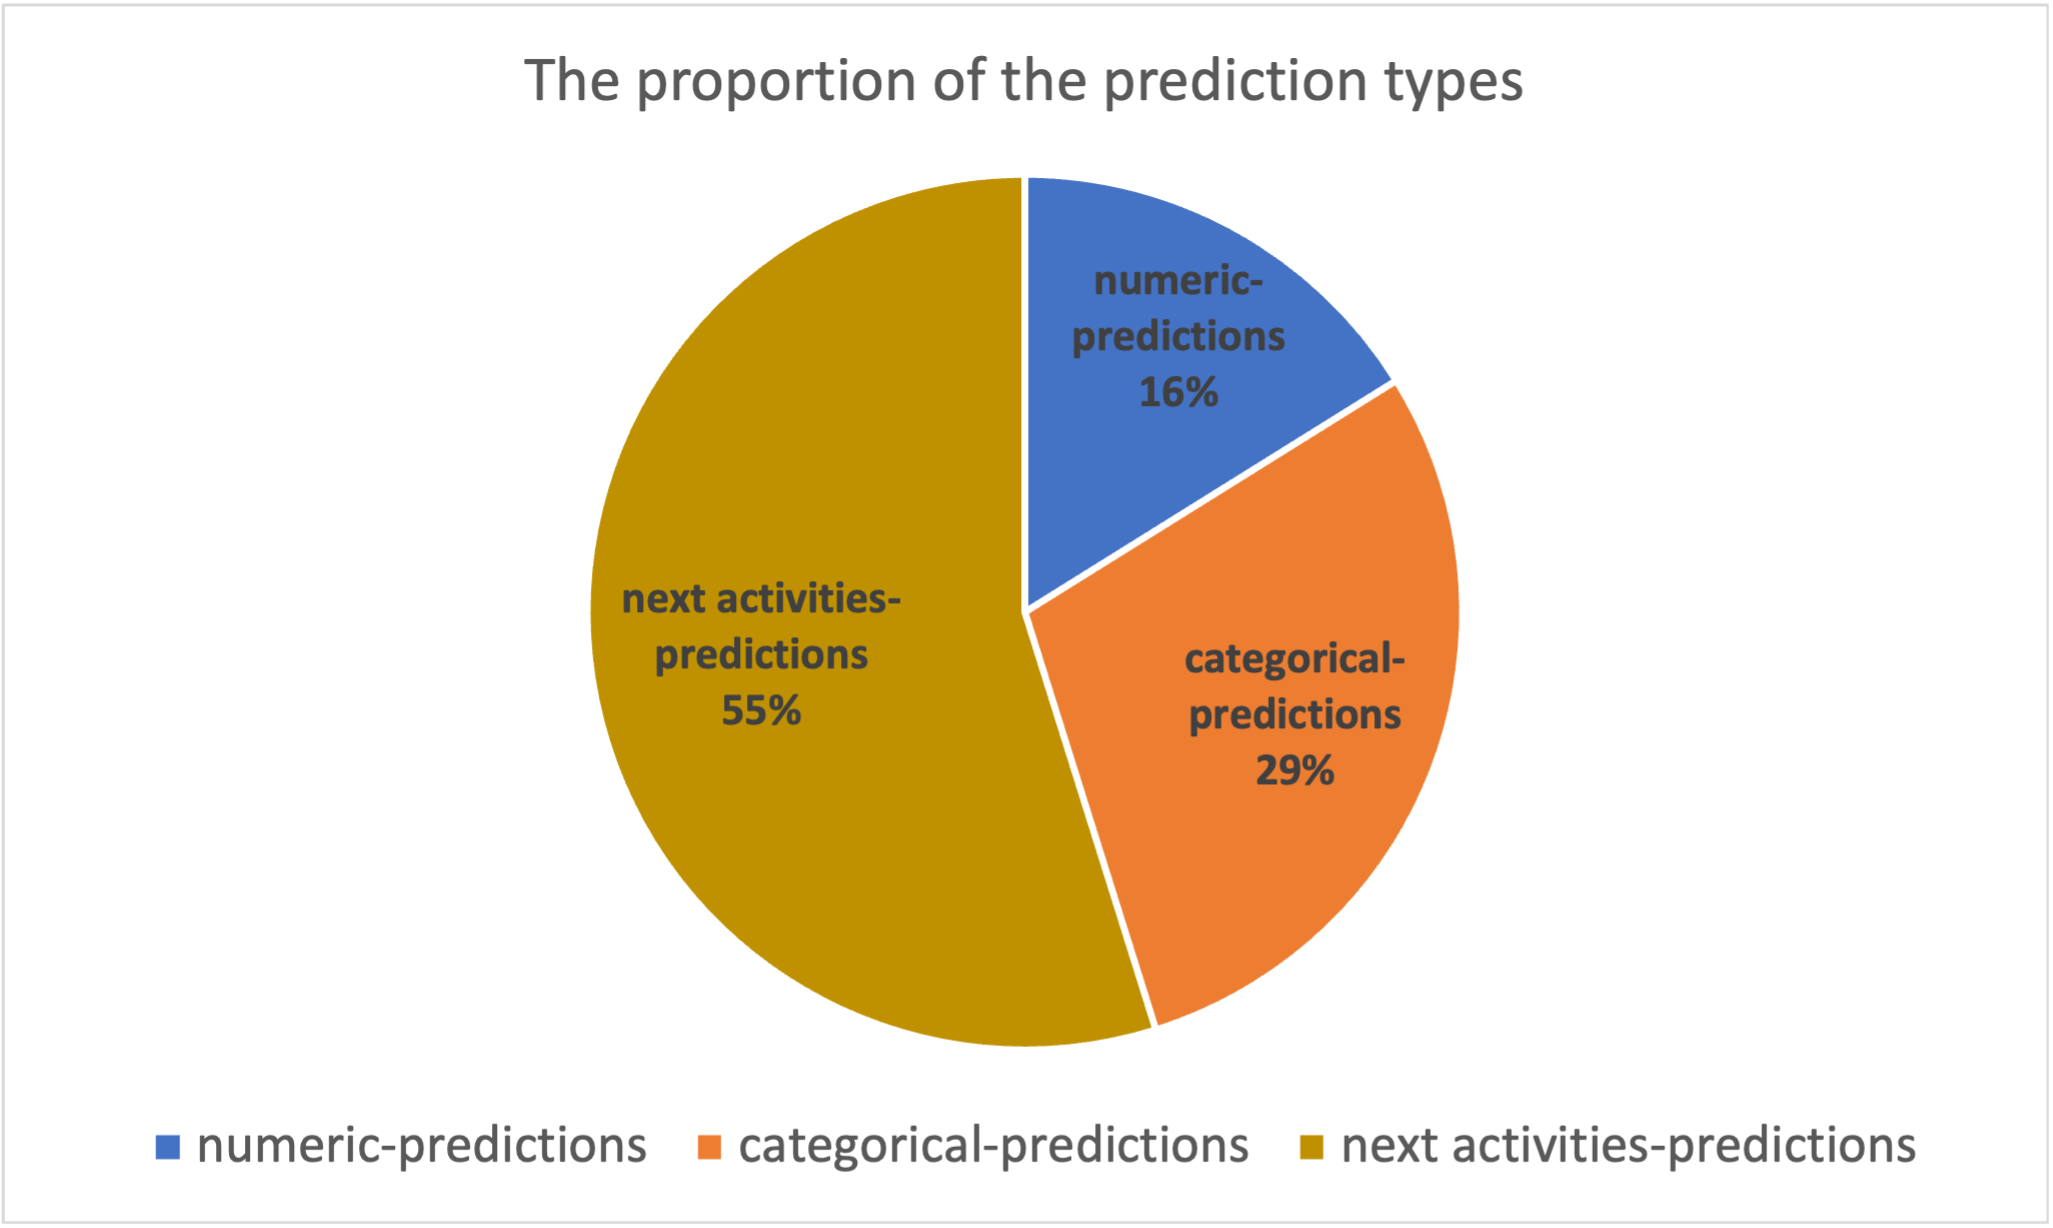
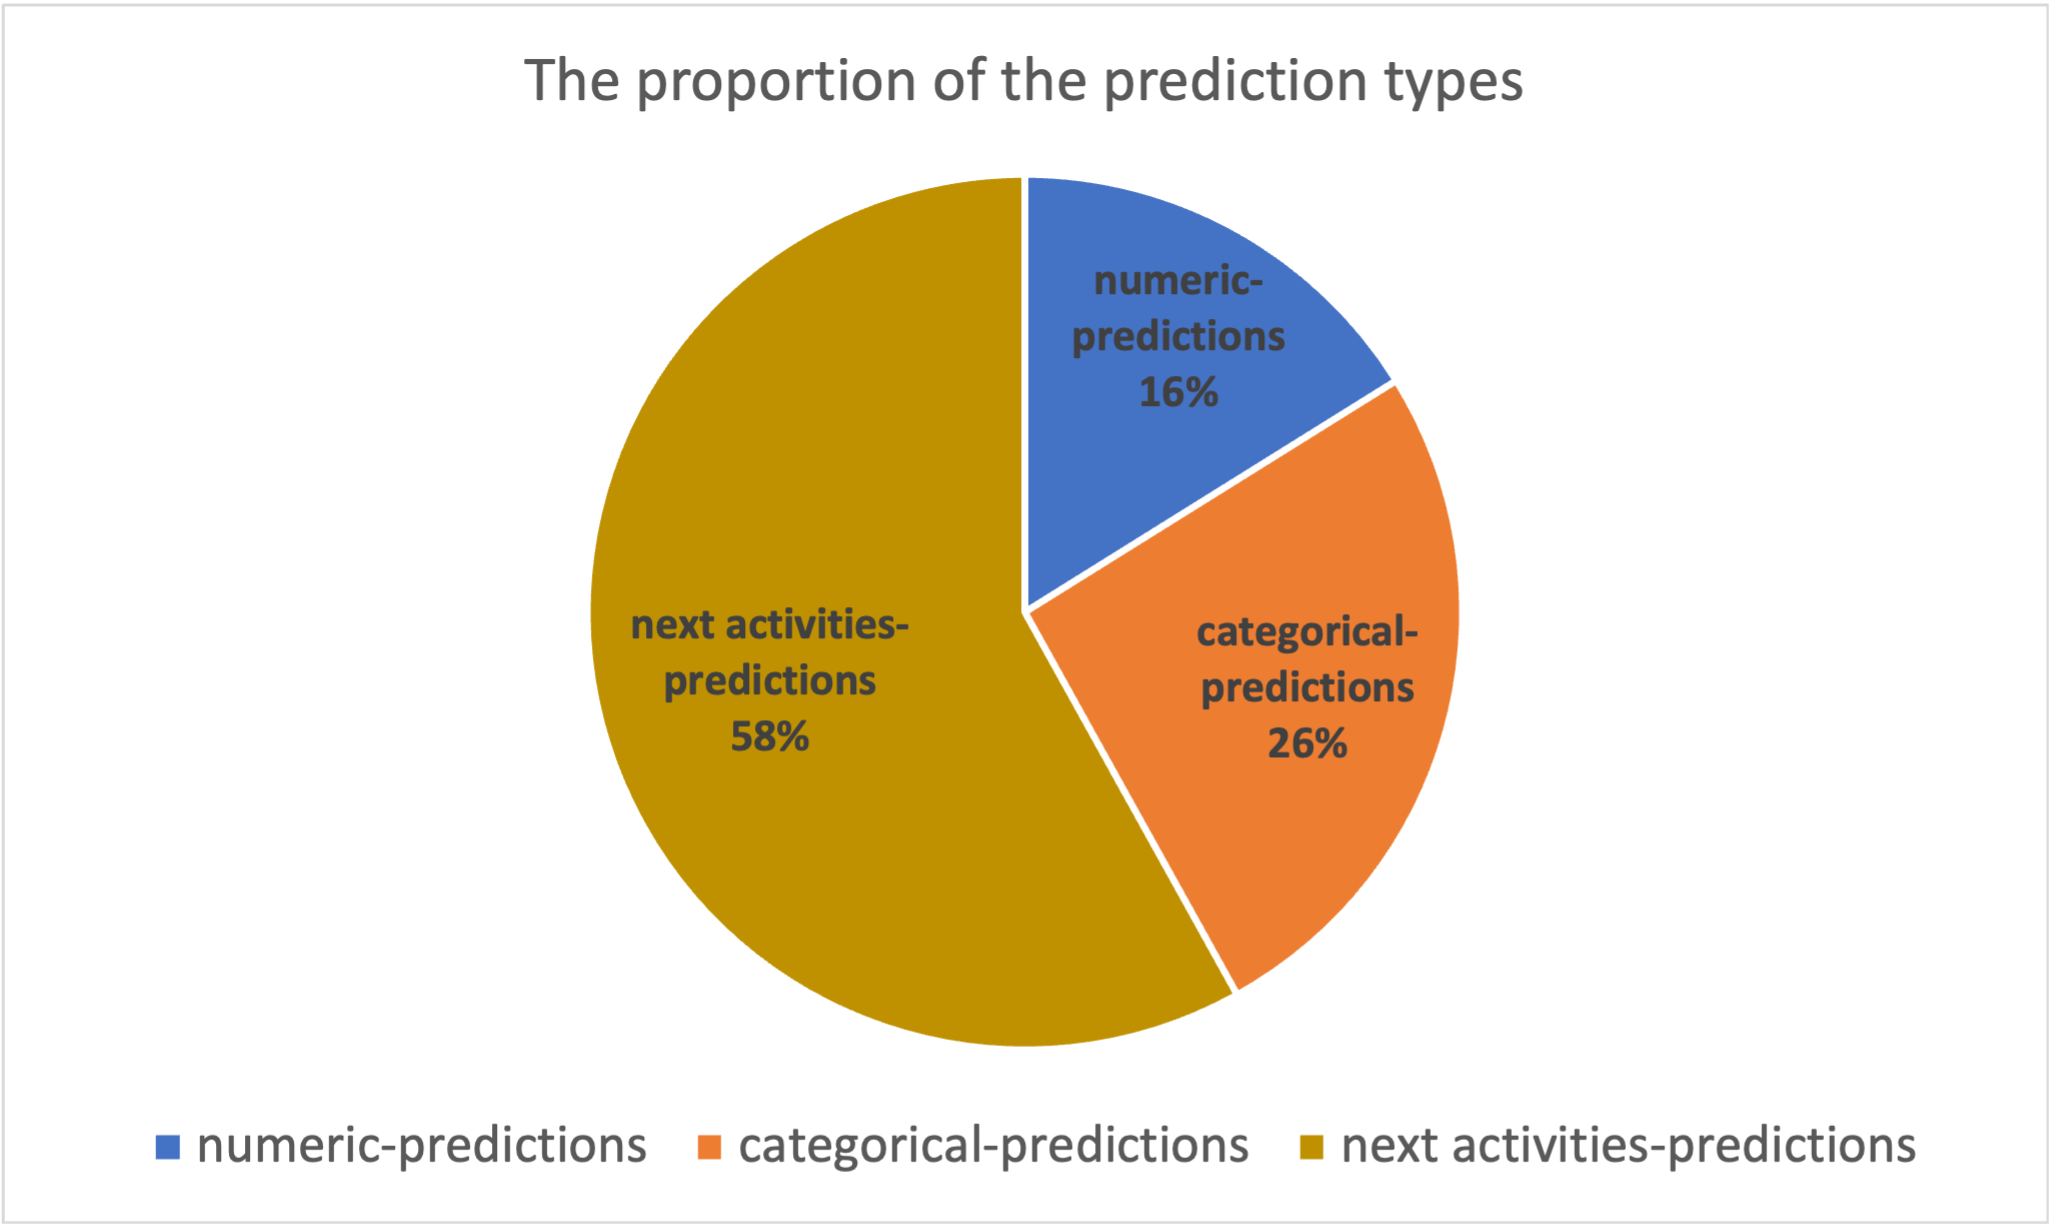
numeric prediction done; new pictures added

Changed region(s): [[0.4988, 0.4951, 0.6235, 0.8355], [0.3117, 0.4642, 0.4364, 0.6189], [0.5611, 0.4951, 0.6858, 0.6498]]

diff --git a/Seminar.tex b/Seminar.tex
@@ -6,6 +6,8 @@
 
 \usepackage{hyperref}[colorlinks,linkcolor=blue]
 
+\usepackage[utf8]{inputenc}
+
 \begin{document}
 	\title{Seminar- scientific methods in information systems}
 	\subtitle{Predictive Process Monitoring Methods:\\ Which One Suits Me Best?}
@@ -84,7 +86,7 @@
 		\end{figure}
 		
 		%Prediction level proportion
-		To address \textbf{RQ2}, I need to look closely at the prediction level proposed in each paper. The work of \cite{original} categorized three prediction levels, i.e., Numeric Predictions,   Categorical Predictions, and Next Activities Predictions. Here I followed the same principle and categorized my final article. I calculated thae proportion of each prediction level and plotted the following graph.
+		To address \textbf{RQ2}, I need to look closely at the prediction level proposed in each paper. The work of \cite{original} categorized three prediction levels, i.e., Numeric Predictions,   Categorical Predictions, and Next Activities Predictions. Here I followed the same principle and categorized my final article. I calculated the proportion of each prediction level and plotted the following graph.
 		
 		
 		\begin{figure}
@@ -93,7 +95,7 @@
 		\caption{The proportion of the prediction types}
 		\end{figure}
 		
-		People can observe that 55\% of techniques make a next-activity prediction. On the contrary, only 16\% of techniques make numeric predictions; I will look into this phenomenon in the following sub-sections. I will also summarize the benefits each prediction type brings to business logic as well as briefly talk about the algorithms and new trends that emerged in current studies.
+		People can observe that 58\% of techniques make a next-activity prediction. On the contrary, only 16\% of techniques make numeric predictions; I will look into this phenomenon in the following sub-sections. I will also summarize the benefits each prediction type brings to business logic as well as briefly talk about the algorithms and new trends that emerged in current studies.
 		
 		\subsection{Next Activities Predictions}
 		
@@ -105,14 +107,10 @@
 		
 		The works in this area all rely on specific models. It is clear that different methods are used to make the prediction, but among them, neural networks are the most commonly used method. \cite{art-29} points out that the prediction of remaining execution time belongs to regression problems and \cite{art-17} illustrated that the Long Short-Term Memory networks (LSTMs) commonly perform better than other models. Due to these facts, it is not hard to imagine why neural networks are the most commonly used ones.
 		
-		%TODO:接下来分析不同文章中提到的方法以及有哪些创新
-		
-		
-		
-		
-		
-		
-		%TODO: rewrite thentitle
+		In\cite{art-15}\cite{art-21}\cite{art-29}, neural networks are leveraged to make a precise prediction. In \cite{art-15}, the authors employed Deep Neural Network (DNN) and Entity Embedding technique to raise the predictive accuracy. Entity Embedding is important in this context to raise the speed of the neural network; this encoding method clusters the intrinsically similar values that will be denoted as vectors and placed near each other to reduce memory usage.  \cite{art-21} uses LSTM neural network to implement the prediction model. \cite{art-21} suggests that LSTM overcomes the drawback of Recurrent Neural Networks (RNN), which is good at short-term sequential prediction but fails to manage long-term predictions. LSTM networks solve the problem by maintaining some aspects constant of the information flow within the neural cells. \cite{art-29} also leverages the LSTM model to perform the prediction. However, the article also proposes the goal of optimization of selecting publishing points. \cite{art-17} attempts to explain the prediction models with Explainable AI based on the game theory of Shapley Values. The Shapley value of a variable refers to the contribution of this variable to the prediction. In \cite{art-13}, the authors propose to record the spatial event log at the event log that is used as input data to increase accuracy.       
+
+				
+		%TODO: rewrite the title
 		\section{Search on the algorithmical trend}
 		
 		To address \textbf{RQ3}, I have to take a deeper look into the algorithms used in each paper. 
@@ -123,6 +121,13 @@
 		\includegraphics[scale=0.4]{Distribution_algorithms.png}
 		\centering
 		\caption{The Distribution of algorithms between the years 2018 and 2022}
+		\end{figure}
+		
+		
+		\begin{figure}
+		\includegraphics[scale=0.6]{Algorithms_usage.png}
+		\centering
+		\caption{Algorithms used in each prediction type}
 		\end{figure}
 		
 		%算法的运用有什么新的趋势吗？XAI eg 为什么会有这种新的趋势
@@ -148,6 +153,21 @@
 	\bibitem{guidline}
 	Kitchenham B. Procedures for performing systematic reviews[J]. Keele, UK, Keele University, 2004, 33(2004): 1-26.
 	
+	\bibitem{art-4}
+	Prasidis I, Theodoropoulos N P, Bousdekis A, et al. Handling Uncertainty in Predictive Business Process Monitoring with Bayesian Networks[C]//2021  12th International Conference on Information, Intelligence, Systems \& Applications (IISA). IEEE, 2021: 1-8.
+	
+	\bibitem{art-8}
+	Lu K, Fang X, Fang X. Business Process Outcome Prediction Based on Deep Latent Factor Model[J]. Electronics, 2022, 11(9): 1509.
+	
+	\bibitem{art-9}
+	Wang J, Yu D, Liu C, et al. Outcome-oriented predictive process monitoring with attention-based bidirectional LSTM neural networks[C]//2019 IEEE International Conference on Web Services (ICWS). IEEE, 2019: 360-367.
+	
+	\bibitem{art-11}
+	Rizzi W, Di Francescomarino C, Maggi F M. Explainability in predictive process monitoring: when understanding helps improving[C]//International Conference on Business Process Management. Springer, Cham, 2020: 141-158.
+	
+	\bibitem{art-12}
+	Pasquadibisceglie V, Appice A, Castellano G, et al. ORANGE: outcome-oriented predictive process monitoring based on image encoding and CNNs[J]. IEEE Access, 2020, 8: 184073-184086.
+	
 	\bibitem{art-13}
 	Ogunbiyi N, Basukoski A, Chaussalet T. Incorporating spatial context into remaining-time predictive process monitoring[C]//Proceedings of the 36th Annual ACM Symposium on Applied Computing. 2021: 535-542.
 	
@@ -156,6 +176,18 @@
 	
 	\bibitem{art-17}
 	Galanti R, Coma-Puig B, de Leoni M, et al. Explainable predictive process monitoring[C]//2020 2nd International Conference on Process Mining (ICPM). IEEE, 2020: 1-8.
+	
+	\bibitem{art-20}
+	Ouyang C, Sindhgatta R, Moreira C. Explainable AI Enabled Inspection of Business Process Prediction Models[J]. arXiv preprint arXiv:2107.09767, 2021.
+	
+	\bibitem{art-21}
+	Camargo M, Dumas M, González-Rojas O. Learning accurate LSTM models of business processes[C]//International Conference on Business Process Management. Springer, Cham, 2019: 286-302.
+	
+	\bibitem{art-26}
+	Käppel M, Jablonski S, Schönig S. Cost-sensitive predictive business process monitoring[C]//European Conference on Advances in Databases and Information Systems. Springer, Cham, 2021: 14-26.
+	
+	\bibitem{art-27}
+	Weinzierl S, Dunzer S, Tenschert J, et al. Predictive business process deviation monitoring[C]//Proceedings of the 29th European Conference on Information Systems (ECIS). 2021.
 	
 	\bibitem{art-29}
 	Jian C, Xiaofu H, Qing Q. Selecting Publishing Points for the Optimal Sharing of Predictive Monitoring Information of a Service Process[C]//2019 IEEE International Conference on Web Services (ICWS). IEEE, 2019: 368-372.
